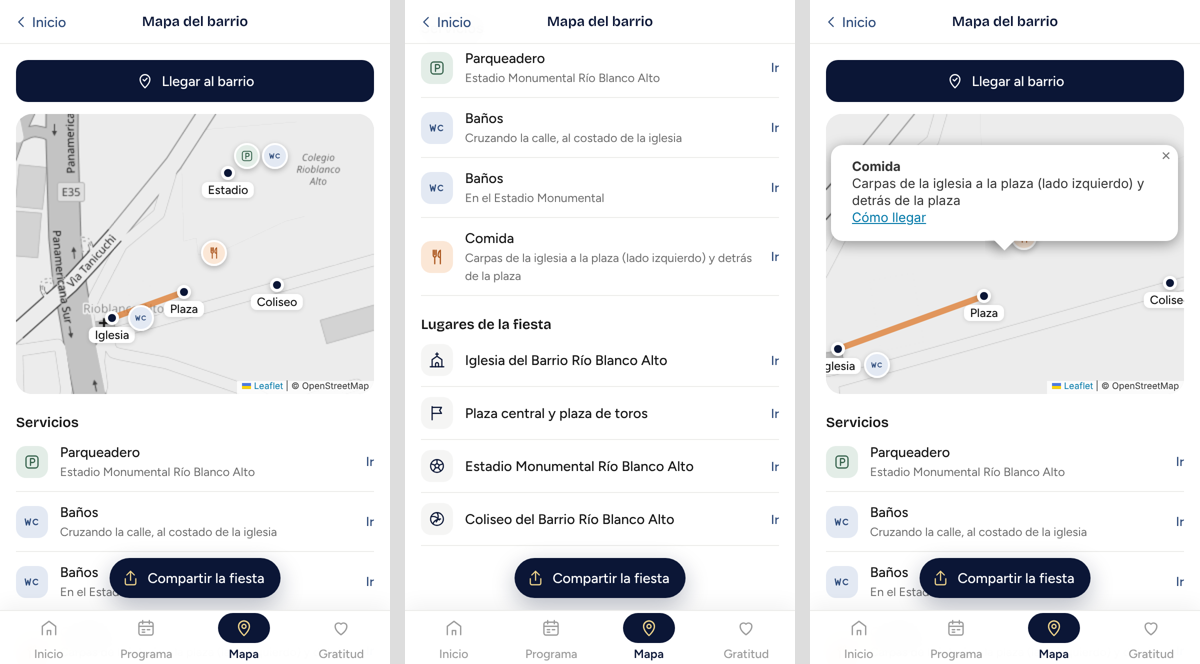
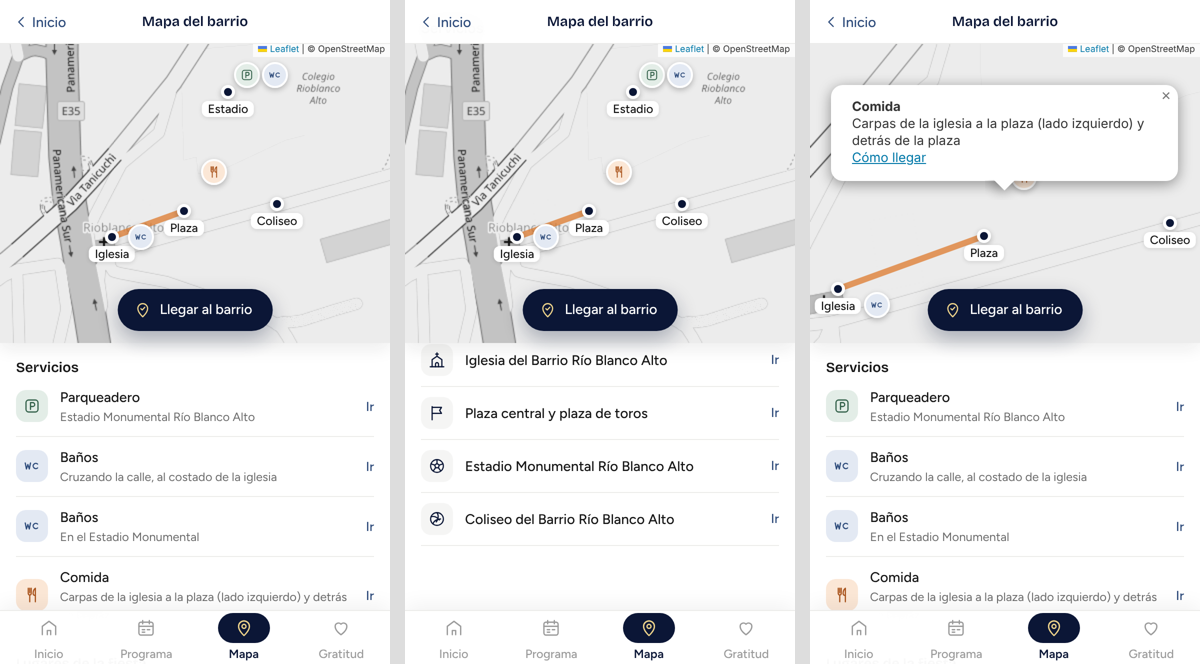
Mapa fijo arriba con Llegar al barrio flotante
La lista de servicios y lugares se desplaza debajo del mapa; tocar una fila
mueve el mapa sin perderlo de vista. En esta pantalla se oculta Compartir la fiesta
para dejar una sola acción principal.

Claude-Session: https://claude.ai/code/session_01U4enuTPgJgMbQN1aoZAVuq

diff --git a/css/estilos.css b/css/estilos.css
@@ -182,8 +182,13 @@ main { max-width: 480px; margin: 0 auto; min-height: 100dvh; padding-top: var(--
 .cab-vista { padding: var(--s5) var(--s4) var(--s3); }
 .cab-vista h2 { font: var(--w-s) var(--t18)/1.25 var(--titulo); }
 .cab-vista p { font-size: var(--t14); color: var(--tinta-2); }
-.mapa { height: 280px; margin: 0 var(--s4); border-radius: 16px; overflow: hidden; background: var(--gris-1); z-index: 0; }
-.mapa .leaflet-control-attribution { font-size: 9px; background: rgba(255,255,255,.7); }
+.mapa-fijo { position: sticky; top: var(--barra); z-index: 5; height: 45dvh; min-height: 260px; background: var(--gris-1); box-shadow: 0 6px 16px rgba(20,20,20,.08); }
+.mapa { position: absolute; inset: 0; z-index: 0; }
+.btn-llegar { position: absolute; z-index: 500; left: 50%; bottom: var(--s3); transform: translateX(-50%); display: inline-flex; align-items: center; gap: var(--s2); height: 42px; padding: 0 var(--s5) 0 var(--s4); border-radius: 999px; background: var(--noche); color: #fff; font-weight: var(--w-m); font-size: var(--t14); text-decoration: none; white-space: nowrap; box-shadow: 0 8px 20px rgba(11,22,54,.3); }
+.btn-llegar .ico { color: var(--oro-claro); }
+.btn-llegar:active { transform: translateX(-50%) scale(1.05); }
+.mapa .leaflet-control-attribution { font-size: 9px; background: rgba(255,255,255,.7); margin-bottom: 0; }
+.mapa .leaflet-bottom { bottom: auto; top: 0; }
 .pin { display: block; width: 14px; height: 14px; border-radius: 50%; background: var(--noche); border: 3px solid #fff; box-shadow: 0 2px 6px rgba(0,0,0,.25); }
 .pin-etq { position: absolute; left: 7px; top: 16px; transform: translateX(-50%); white-space: nowrap; font: var(--w-m) 12px var(--texto); color: var(--tinta); background: #fff; padding: 1px 6px; border-radius: 6px; box-shadow: 0 1px 4px rgba(0,0,0,.12); }
 .lista-t { font: var(--w-s) var(--t14)/1.3 var(--titulo); color: var(--tinta); padding: var(--s5) var(--s4) 0; }
@@ -199,7 +204,7 @@ main { max-width: 480px; margin: 0 auto; min-height: 100dvh; padding-top: var(--
 .pin-srv { display: grid; place-items: center; width: 26px; height: 26px; border-radius: 50%; border: 2px solid #fff; box-shadow: 0 2px 6px rgba(0,0,0,.25); }
 .pin-srv .ico { width: 14px; height: 14px; }
 .pin-grupo { display: flex; gap: 2px; }
-#vista-lugares .cab-vista { padding-top: var(--s4); }
+#vista-lugares .lista-t:first-of-type { padding-top: var(--s4); }
 .lugar { display: block; border-radius: 14px; overflow: hidden; text-decoration: none; background: #fff; border: 1px solid var(--linea); }
 .lugar img { width: 100%; aspect-ratio: 16 / 8; object-fit: cover; background: var(--gris-1); }
 .lugar .info { display: flex; align-items: center; gap: var(--s3); padding: var(--s3); }

diff --git a/js/app.js b/js/app.js
@@ -99,7 +99,8 @@ function ir(vista) {
 let ctaVisible = true;
 function fabVisible() {
   const enInicio = !$('#vista-inicio').hidden;
-  $('#fab').classList.toggle('oculto', enInicio && ctaVisible);
+  const enMapa = !$('#vista-lugares').hidden; // en el mapa la acción principal es Llegar al barrio
+  $('#fab').classList.toggle('oculto', (enInicio && ctaVisible) || enMapa);
 }
 function observarCta() {
   if (!('IntersectionObserver' in window)) return;
@@ -355,13 +356,13 @@ async function mapa() {
     for (const y of xs) marcadores[y.id] = mk;
     grupo.push([x.lat, x.lng]);
   }
-  m.fitBounds(grupo, { padding: [30, 30], maxZoom: 18 });
+  m.fitBounds(grupo, { paddingTopLeft: [30, 30], paddingBottomRight: [30, 70], maxZoom: 18 });
+  setTimeout(() => m.invalidateSize(), 50);
 }
 
 function verEnMapa(id) {
   const mk = marcadores[id];
   if (!mapaL || !mk) return;
-  $('#mapa').scrollIntoView({ behavior: 'smooth', block: 'center' });
   mapaL.flyTo(mk.getLatLng(), 18, { duration: .6 });
   setTimeout(() => mk.openPopup(), 650);
 }

diff --git a/index.html b/index.html
@@ -71,10 +71,10 @@
   </section>
 
   <section id="vista-lugares" class="vista" aria-label="Lugares" hidden>
-    <div class="cab-vista">
-      <a id="llegar" class="btn btn-noche tap" target="_blank" rel="noopener"><span data-ico="ruta"></span>Llegar al barrio</a>
+    <div class="mapa-fijo">
+      <div id="mapa" class="mapa" role="region" aria-label="Mapa del barrio"></div>
+      <a id="llegar" class="btn-llegar tap" target="_blank" rel="noopener"><span data-ico="ruta"></span>Llegar al barrio</a>
     </div>
-    <div id="mapa" class="mapa" role="region" aria-label="Mapa del barrio"></div>
     <h3 class="lista-t">Servicios</h3>
     <ul id="lista-servicios" class="lista-lugares"></ul>
     <h3 class="lista-t">Lugares de la fiesta</h3>
